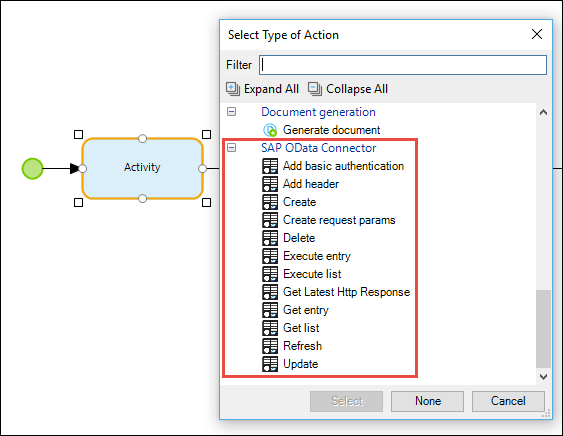
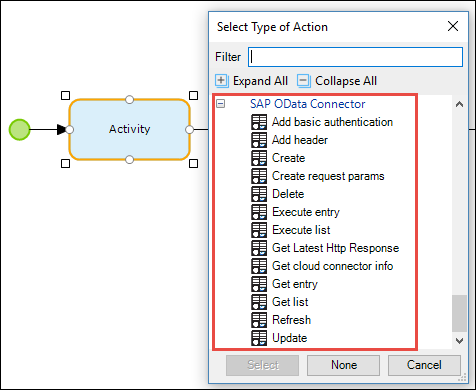
OData Connector - Cloud Connector (#1210)
* Updated text - awaiting approval from DES

* no message

Changed region(s): [[0.0, 0.0, 1.0, 1.0], [0.0, 0.0, 0.0294, 0.0308]]

diff --git a/content/refguide/sap/sap-odata-connector.md b/content/refguide/sap/sap-odata-connector.md
@@ -114,7 +114,10 @@ This domain model is part of the SAP OData Connector module and can be found in 
 * **Header** – add a custom HTTP header that provides more information in an HTTP request
   * **Name** – the name of the header
   * **Value** – the value of the header
-* **CloudConnector Info** – internal use only
+* **CloudConnector Info** – information which can be read from the SAP Cloud Portal to obtain proxy details used to access the SAP Cloud Connector
+  * **ProxyHost** – the address of the proxy which gives access through the SAP Cloud Connector
+  * **ProxyPort** – the port which is to gain access through the SAP Cloud Connector
+  * **ProxyBearerToken** – an authorization token which is needed when using the SAP Cloud Connector
 * **Cookie** – the cookie is maintained internally and is valid for a Mendix session or in the microflow context of a startup microflow or scheduled event
 * **CSRFToken** – the Cross-Site Request Forgery (CSFR) token is maintained internally and is used to prevent CSRF attacks; a CSFR token is maintained for a Mendix session and is also supported in the microflow context of a startup microflow or scheduled event
 
@@ -331,6 +334,14 @@ This action returns the HTTP Response to the last OData action that was performe
 For example, you could catch an exception on **Get List** and display an error message to the user.
 
 ![](attachments/sap-odata-connector/errorhandling-sapodataconnector.png)
+
+#### 3.2.5 Get cloud connector info
+
+This creates a **CloudConnectorInfo** object and fills the values for **ProxyHost**, **ProxyPort**, and **ProxyBearerToken** from the SAP environment, when the app is running on the SAP Cloud Portal.
+
+{{% alert type="warning" %}}
+If your app is not running on the SAP Cloud Portal, this action will throw an error.
+{{% /alert %}}
 
 ## 4 Connector Action Parameters<a name="ConnectorActionParameters"></a>
 
